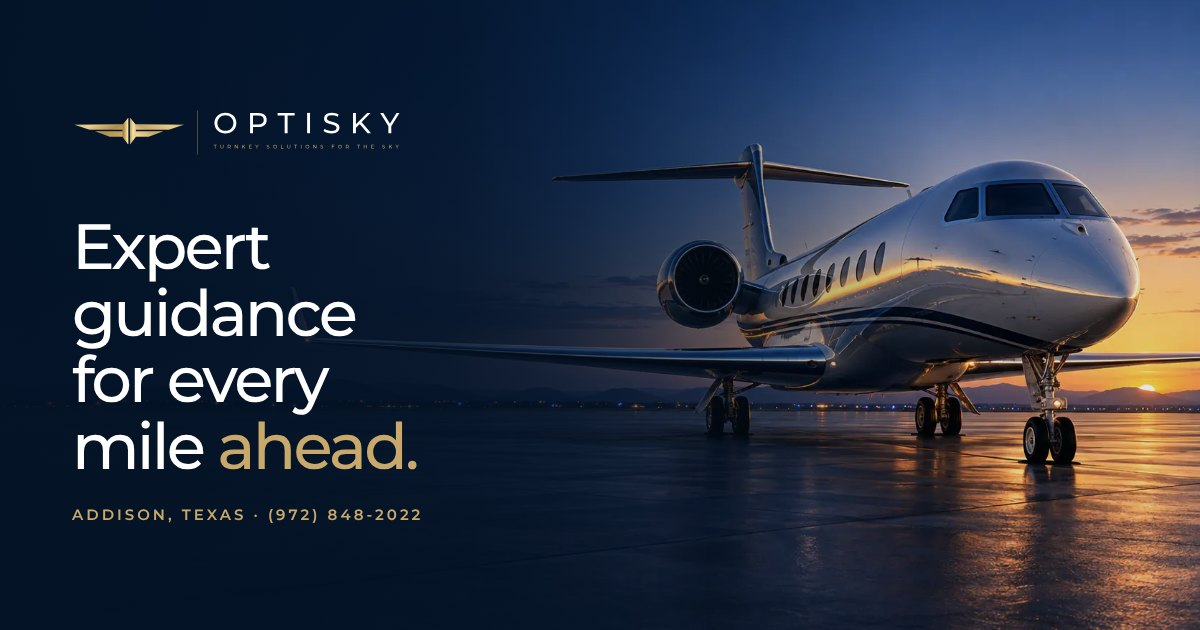
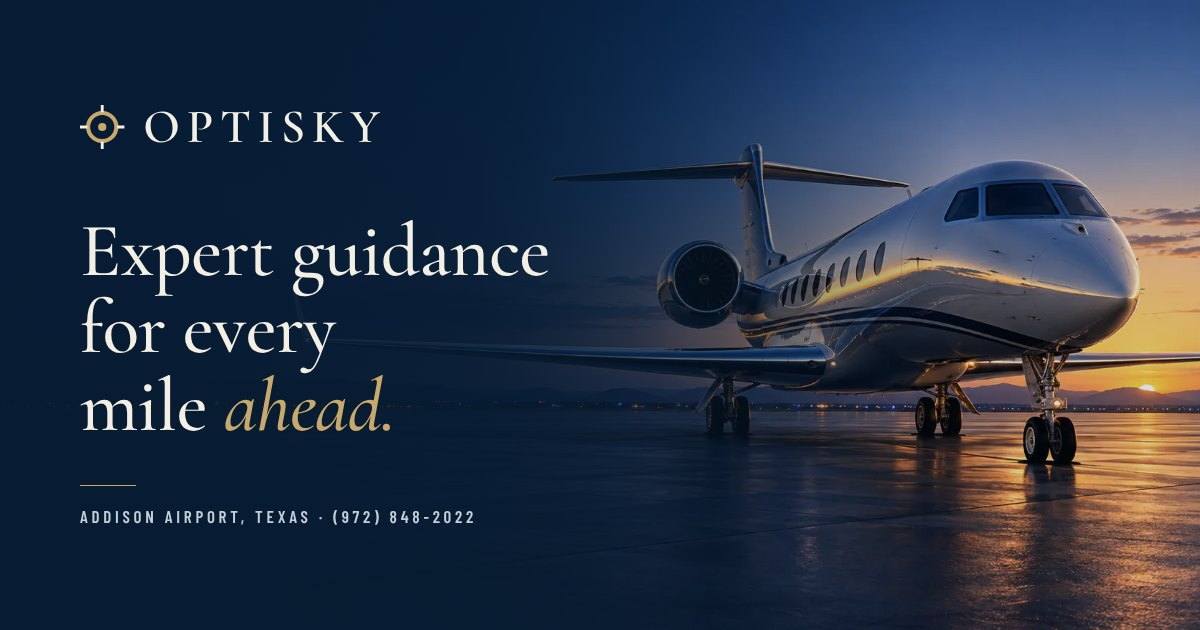
Update the social preview with the new identity (#12)
* Redesign the site as a sectional chart: new identity, type and layout

Chart paper, one magenta ink and condensed chart lettering on a strict
grid. The hero becomes a chart band with the KADS waypoint and a route
that plots out on load; services are legs of one flight plan; contact is
the destination. New waypoint wordmark and app icon set. The supplied
jet photo moves to the Aircraft section.

Copy, anchors, phone and listing links, script behaviour, Pulse, CSP and
deploy config are unchanged. Fonts: Barlow Condensed and Archivo (OFL).

Claude-Session: https://claude.ai/code/session_0186uXpYEFMJYzEQU4QayGc5

* Wire the full icon set into the head tags and manifest

Claude-Session: https://claude.ai/code/session_0186uXpYEFMJYzEQU4QayGc5

* Record asset licences and check CSS colour tokens against the brand palette

Claude-Session: https://claude.ai/code/session_0186uXpYEFMJYzEQU4QayGc5

* Plot the services and contact routes on first view

The legs route and the route into the destination waypoint draw once when
each section first comes into view; complete from the start under reduced
motion or without IntersectionObserver.

Claude-Session: https://claude.ai/code/session_0186uXpYEFMJYzEQU4QayGc5

* Fix the doubled header offset when jumping to a section

Claude-Session: https://claude.ai/code/session_0186uXpYEFMJYzEQU4QayGc5

* Tighten craft details found by PIXELCRAFT

Skip link fully hidden until focused, brand link hover and pressed states,
[…]

Changed region(s): [[0.0617, 0.3317, 0.4625, 0.754], [0.0617, 0.7841, 0.4008, 0.8444], [0.0617, 0.1508, 0.3392, 0.2413]]

diff --git a/public/index.html b/public/index.html
@@ -14,12 +14,12 @@
   <meta property="og:url" content="https://optisky.vercel.app/">
   <meta property="og:title" content="OptiSky | Expert guidance for every mile ahead">
   <meta property="og:description" content="Aircraft acquisition and sales, aircraft management, and aviation insurance through OptiSurance. Based at Addison Airport, Texas.">
-  <meta property="og:image" content="https://optisky.vercel.app/og-image.jpg">
+  <meta property="og:image" content="https://optisky.vercel.app/og-image.jpg?v=2">
   <meta property="og:image:width" content="1200">
   <meta property="og:image:height" content="630">
   <meta property="og:image:alt" content="OptiSky logo over a business jet on an airport apron at dusk">
   <meta name="twitter:card" content="summary_large_image">
-  <meta name="twitter:image" content="https://optisky.vercel.app/og-image.jpg">
+  <meta name="twitter:image" content="https://optisky.vercel.app/og-image.jpg?v=2">
 
   <link rel="icon" href="/assets/icons/icon.svg" type="image/svg+xml">
   <link rel="icon" href="/assets/icons/favicon.ico" sizes="48x48">
